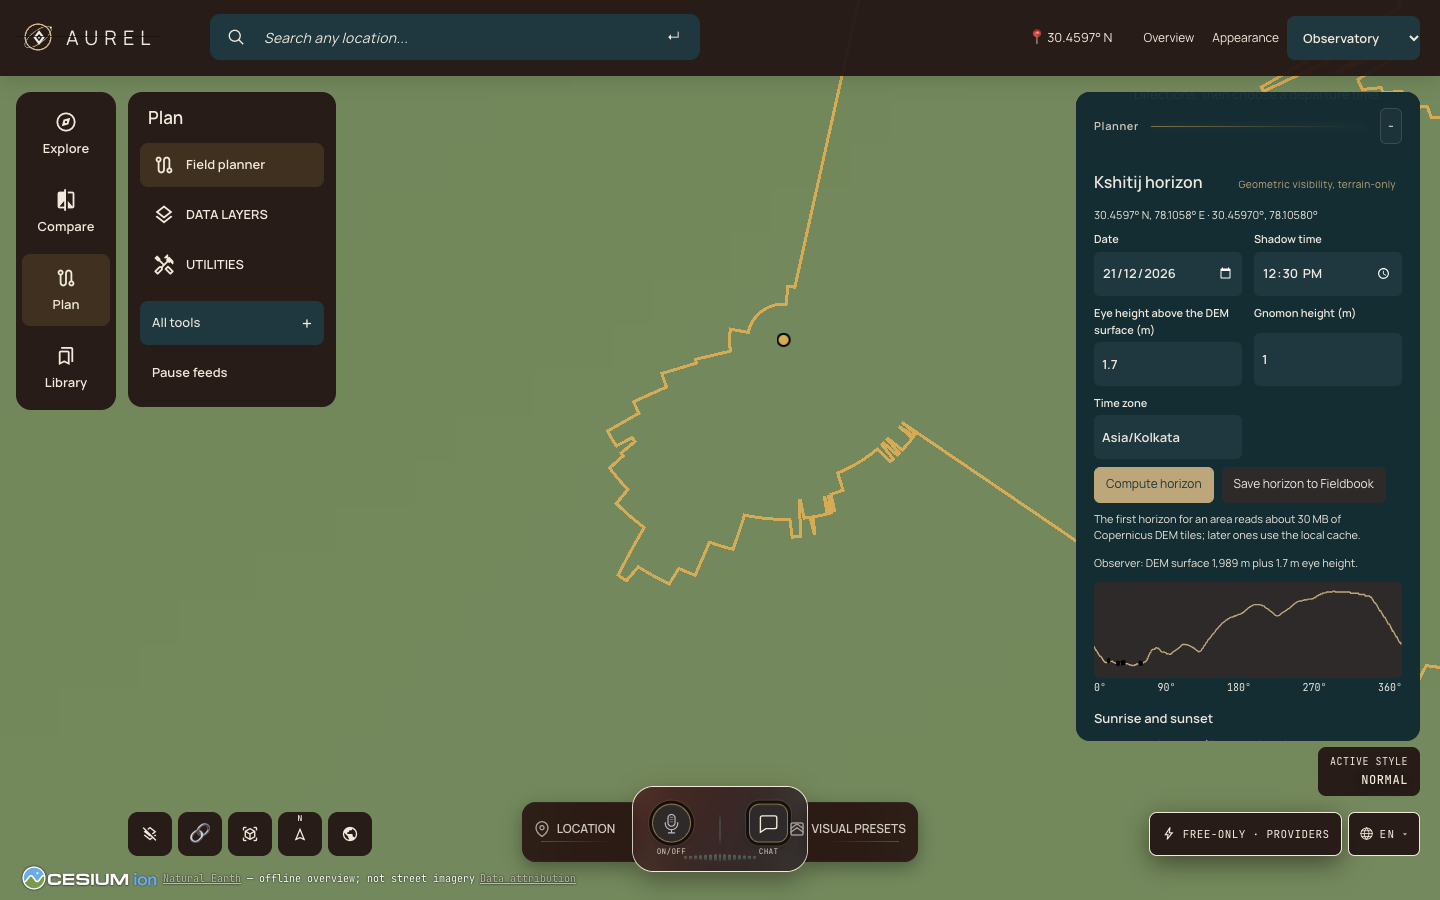
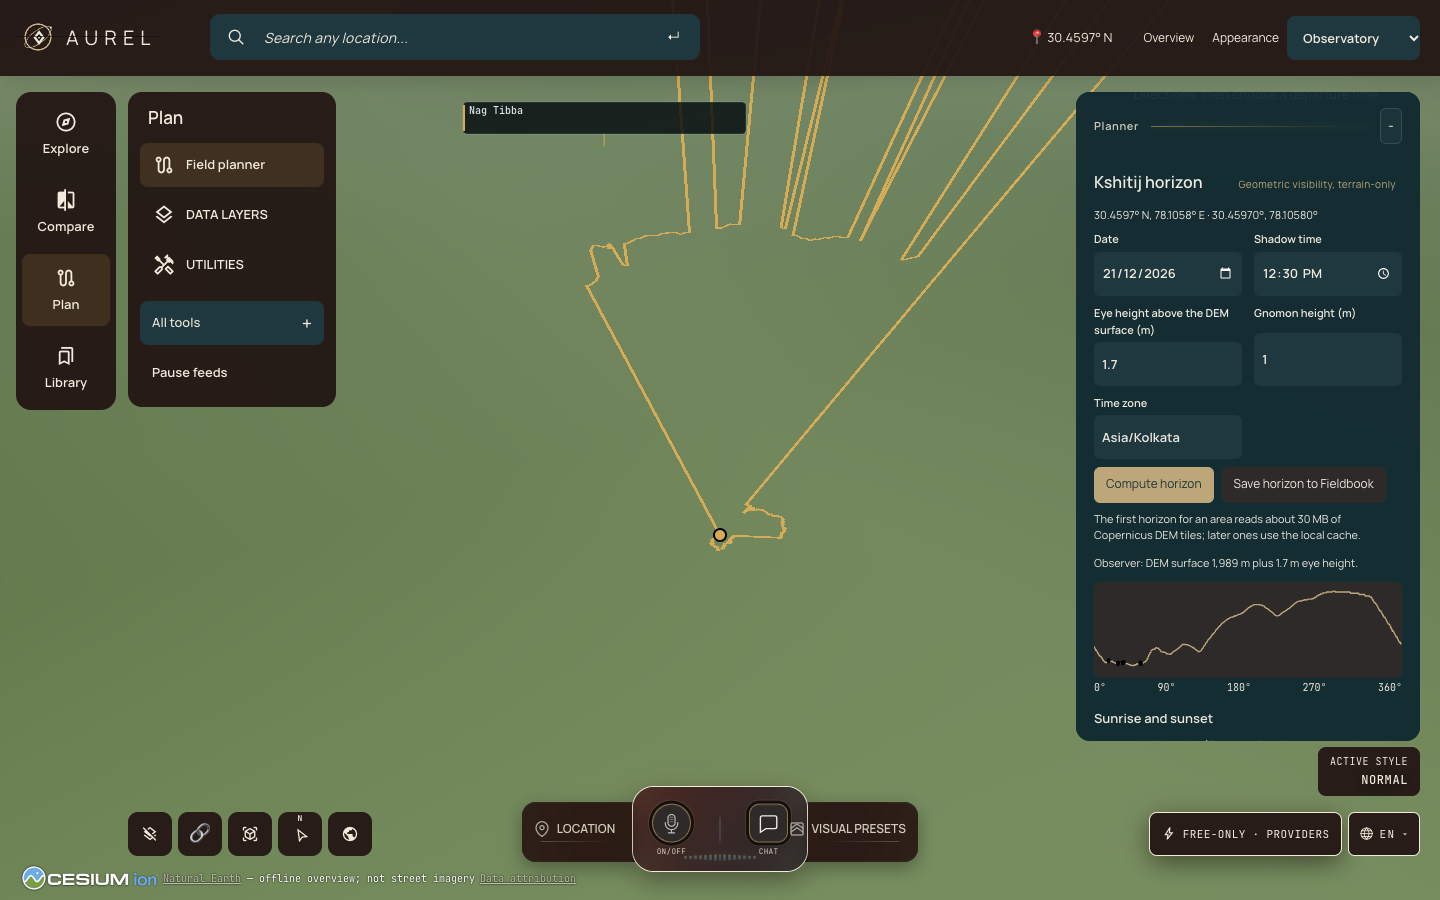
docs(horizon): WP1 delivery record, QA marker check and live evidence

diff --git a/docs/design/aurel/phase-6/wp1/README.md b/docs/design/aurel/phase-6/wp1/README.md
@@ -19,7 +19,7 @@ Every result is labelled "geometric visibility, terrain-only". Azimuths are roun
 | --- | --- | --- |
 | Planner card | Plan → Field planner, place scope | Date, shadow time, eye height above the DEM surface, gnomon height, IANA zone; explicit **Compute horizon**, cancellable; nothing is computed on mount or on selection |
 | Lens card | Lens → Overview | The same card and owner; one result is shared by both cards |
-| Globe | `CustomDataSource('kshitij-horizon')` | Brass (`#d6ab55`) ground-clamped skyline trace, one vertex per ray at its blocking terrain, the observer point, and up to six skyline peak labels ("Name · km · az ° · terrain-only"); cleared when the place changes |
+| Globe | `CustomDataSource('kshitij-horizon')` | Brass (`#d6ab55`) ground-clamped skyline trace, one vertex per ray at its blocking terrain, the observer point, and up to six skyline peak markers whose names ("Name · km · az ° · terrain-only") go through the shared world-overlay host, never Cesium labels; cleared when the place changes |
 | Fieldbook | Library → Saved analyses | New analysis kind `horizon` on the observed place: 360 whole-degree angles and distances, Sun/Moon times, shadow, up to 20 peaks, DEM and gazetteer provenance, a fixed class table; strict validation; reopening never refreshes |
 | MCP | `horizon_at` (MCP only, voice off) | Returns the `aurel.horizon` provenance envelope: every number is `{ value, unit, class, source, applicableTime }`; see [TOOLS.md](../../../../TOOLS.md) and [MCP_SETUP.md](../../../../MCP_SETUP.md) |
 
@@ -57,12 +57,12 @@ The plan's demo copy ("Bandarpunch 6,316 m · 68 km · az 41°", "astronomical 0
 | Check | Result |
 | --- | --- |
 | Targeted tests while building | `src/horizon/*.test.mjs` (horizon, ephemeris, peaks, snapshot), `src/regions/peaks.test.mjs`, `server/providers/horizon/horizon.test.mjs`, `src/tools/queries/horizon.test.mjs`, `src/ui/horizonController.test.mjs`, `src/ui/views/panels/horizonCard.test.mjs`: all pass, plus the existing Fieldbook, tools, MCP, Planner, Lens and region-pack suites |
-| `npm test` | FULL_TEST_RESULT |
-| `npm run format:check` | FORMAT_RESULT |
+| `npm test` | **Not green on this machine.** Two full runs of 11,472 tests while seven other sessions were testing (load average 35–50). Run 1: 11,463 passed, 5 failed. One failure was WP1's (`noCesiumLabels.test.mjs`, Cesium labels on the ring), fixed in `3d4f4c76` by moving peak names to the world-overlay host. Run 2: 11,465 passed, 3 failed, 4 skipped. The 3 failures are process timeouts outside WP1 (`geoFileImport` KML deadline `spawnSync … ETIMEDOUT`, two `devCctv` launcher tests over their 30 s budget); their files pass 116/116 in isolation, and run 1's failing set differed. Skips: optional PyOsmium builder (needs `AUREL_PYOSMIUM`), the Windows DACL hardener, and two opt-in perf budgets. The orchestrator should re-run the suite on an idle machine |
+| `npm run format:check` | Passes (2,028 files). `scripts/format-scope.json` on `main` listed two deleted tests (`src/fieldbook/document.test.mjs`, `src/sources/firmsArea.test.mjs`), which made `format:check` fail for every branch; those two lines are removed here |
 | `npm run check:boundaries` | Passes |
 | `npm run i18n` | 11 catalogs complete at 3,662 messages; no unmarked UI text |
-| `scripts/qa-aurel-horizon.mjs` | QA_RESULT. External requests aborted; `/api/horizon/terrain` served by a labelled synthetic DEM; bundled peaks pack from the local server. Evidence: `evidence/checks.json`, `horizon-desktop*.png`, `horizon-mobile.png` |
-| Live browser check | The Lal Tibba flow above against live GLO-30 through the dev server, external browser requests blocked: one terrain request, ring drawn with 6 labels, 0 runtime errors, phone width 390 with no overflow. Evidence: `evidence/live-laltibba.json`, `live-laltibba-desktop.png`, `live-laltibba-desktop-peaks.png`, `live-laltibba-mobile.png` |
+| `scripts/qa-aurel-horizon.mjs` | 14/14 checks pass at 1440×900 and 390×844 (port 4187). External requests aborted; `/api/horizon/terrain` served by a labelled synthetic DEM; bundled peaks pack from the local server. Evidence: `evidence/checks.json`, `horizon-desktop*.png`, `horizon-mobile.png` |
+| Live browser check | The Lal Tibba flow above against live GLO-30 through the dev server, external browser requests blocked: one terrain request, ring, observer point and six skyline peak markers drawn (names through the world-overlay host), 0 runtime errors, phone width 390 with no overflow. Evidence: `evidence/live-laltibba.json`, `live-laltibba-desktop.png`, `live-laltibba-desktop-peaks.png`, `live-laltibba-mobile.png` |
 | Dev server port | 4173 was held by the WP2 session's server, so verification ran on **4187** |
 | Free-only | No key, account or billable host. The DEM bucket is keyless AWS Open Data; the QA run never contacted it |
 | `.env` | Not read, printed or changed |
